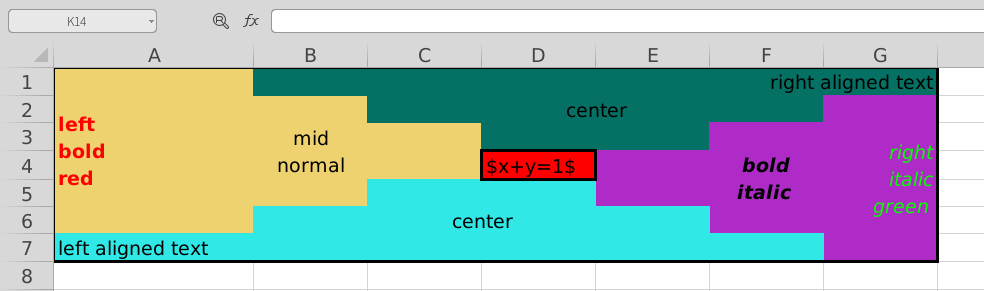
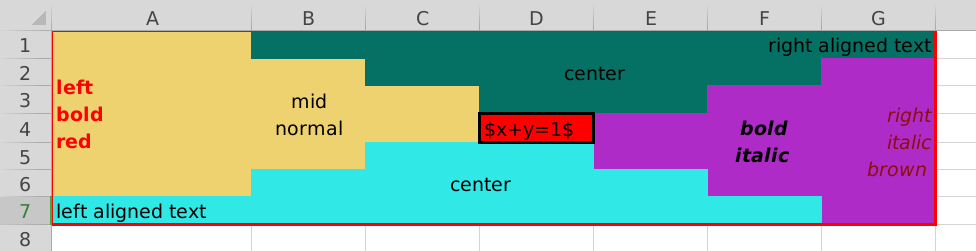
change examples and add setting.tex

diff --git a/examples/all.tex b/examples/all.tex
@@ -1,21 +1,21 @@
 \begin{tabular}{*{7}{c}}
 \hhline{
-  >{\vsl{black}{0.8pt}}
-  !{\sfill{black}{0.8pt}}
-  !{\sfill{black}{0.8pt}}
-  !{\sfill{black}{0.8pt}}
-  !{\sfill{black}{0.8pt}}
-  !{\sfill{black}{0.8pt}}
-  !{\sfill{black}{0.8pt}}
-  !{\sfill{black}{0.8pt}}
-  >{\vsl{black}{0.8pt}}
+  >{\vsl{FF0000}{0.8pt}}
+  !{\sfill{FF0000}{0.8pt}}
+  !{\sfill{FF0000}{0.8pt}}
+  !{\sfill{FF0000}{0.8pt}}
+  !{\sfill{FF0000}{0.8pt}}
+  !{\sfill{FF0000}{0.8pt}}
+  !{\sfill{FF0000}{0.8pt}}
+  !{\sfill{FF0000}{0.8pt}}
+  >{\vsl{FF0000}{0.8pt}}
 }
 % row 1
-  \multicolumn{1}{!{\vsl{black}{0.8pt}}>{\color{FF0000}\bfseries}c}{\cellcolor{EED270}}
-  & \multicolumn{6}{r!{\vsl{black}{0.8pt}}}{\cellcolor{057165}right aligned text}
+  \multicolumn{1}{!{\vsl{FF0000}{0.8pt}}>{\color{FF0000}\bfseries}c}{\cellcolor{EED270}}
+  & \multicolumn{6}{r!{\vsl{FF0000}{0.8pt}}}{\cellcolor{057165}right aligned text}
 \\
 \hhline{
-  >{\vsl{black}{0.8pt}}
+  >{\vsl{FF0000}{0.8pt}}
   !{\sfill{EED270}{0pt}}
   ~
   ~
@@ -23,16 +23,16 @@
   ~
   ~
   ~
-  >{\vsl{black}{0.8pt}}
+  >{\vsl{FF0000}{0.8pt}}
 }
 % row 2
-  \multicolumn{1}{!{\vsl{black}{0.8pt}}>{\color{FF0000}\bfseries}c}{\cellcolor{EED270}}
+  \multicolumn{1}{!{\vsl{FF0000}{0.8pt}}>{\color{FF0000}\bfseries}c}{\cellcolor{EED270}}
   & \multicolumn{1}{c}{\cellcolor{EED270}}
   & \multicolumn{4}{c}{\cellcolor{057165}center}
-  & \multicolumn{1}{>{\color{05FC00}\itshape}c!{\vsl{black}{0.8pt}}}{\cellcolor{AF2BC7}}
+  & \multicolumn{1}{>{\color{8A0E0E}\itshape}c!{\vsl{FF0000}{0.8pt}}}{\cellcolor{AF2BC7}}
 \\
 \hhline{
-  >{\vsl{black}{0.8pt}}
+  >{\vsl{FF0000}{0.8pt}}
   !{\sfill{EED270}{0.8pt}}
   !{\sfill{EED270}{0.8pt}}
   !{\ssfill{057165}{0.4pt}{EED270}{0.4pt}}
@@ -40,18 +40,18 @@
   !{\ssfill{057165}{0.4pt}{057165}{0.4pt}}
   !{\ssfill{057165}{0.4pt}{AF2BC7}{0.4pt}}
   !{\sfill{AF2BC7}{0.8pt}}
-  >{\vsl{black}{0.8pt}}
+  >{\vsl{FF0000}{0.8pt}}
 }
 % row 3
-  \multicolumn{1}{!{\vsl{black}{0.8pt}}>{\color{FF0000}\bfseries}c}{\cellcolor{EED270}}
+  \multicolumn{1}{!{\vsl{FF0000}{0.8pt}}>{\color{FF0000}\bfseries}c}{\cellcolor{EED270}}
   & \multicolumn{1}{c}{\cellcolor{EED270}}
   & \multicolumn{1}{c}{\cellcolor{EED270}}
   & \multicolumn{2}{>{\color{9DF4E0}}c}{\cellcolor{057165}}
   & \multicolumn{1}{>{\itshape\bfseries}c}{\cellcolor{AF2BC7}}
-  & \multicolumn{1}{>{\color{05FC00}\itshape}c!{\vsl{black}{0.8pt}}}{\cellcolor{AF2BC7}}
+  & \multicolumn{1}{>{\color{8A0E0E}\itshape}c!{\vsl{FF0000}{0.8pt}}}{\cellcolor{AF2BC7}}
 \\
 \hhline{
-  >{\vsl{black}{0.8pt}}
+  >{\vsl{FF0000}{0.8pt}}
   !{\sfill{EED270}{0.8pt}}
   !{\sfill{EED270}{0.8pt}}
   !{\sfill{EED270}{0.8pt}}
@@ -61,20 +61,20 @@
   !{\ssfill{057165}{0.4pt}{AF2BC7}{0.4pt}}
   !{\sfill{AF2BC7}{0.8pt}}
   !{\sfill{AF2BC7}{0.8pt}}
-  >{\vsl{black}{0.8pt}}
+  >{\vsl{FF0000}{0.8pt}}
 }
 % row 4
-  \multicolumn{1}{!{\vsl{black}{0.8pt}}>{\color{FF0000}\bfseries}c}{\cellcolor{EED270}}
+  \multicolumn{1}{!{\vsl{FF0000}{0.8pt}}>{\color{FF0000}\bfseries}c}{\cellcolor{EED270}}
   & \multicolumn{1}{c}{\cellcolor{EED270}}
   & \multicolumn{1}{c!{\vsl{black}{0.8pt}}}{\cellcolor{EED270}
     \multirow{-2}*{}}
   & \multicolumn{1}{c!{\vsl{black}{0.8pt}}}{\cellcolor{FF0000}$x+y=1$}
   & \multicolumn{1}{c}{\cellcolor{AF2BC7}}
   & \multicolumn{1}{>{\itshape\bfseries}c}{\cellcolor{AF2BC7}}
-  & \multicolumn{1}{>{\color{05FC00}\itshape}c!{\vsl{black}{0.8pt}}}{\cellcolor{AF2BC7}}
+  & \multicolumn{1}{>{\color{8A0E0E}\itshape}c!{\vsl{FF0000}{0.8pt}}}{\cellcolor{AF2BC7}}
 \\
 \hhline{
-  >{\vsl{black}{0.8pt}}
+  >{\vsl{FF0000}{0.8pt}}
   !{\sfill{EED270}{0.8pt}}
   !{\sfill{EED270}{0.8pt}}
   !{\ssfill{EED270}{0.4pt}{30E8E6}{0.4pt}}
@@ -84,20 +84,20 @@
   !{\sfill{AF2BC7}{0.8pt}}
   !{\sfill{AF2BC7}{0.8pt}}
   !{\sfill{AF2BC7}{0.8pt}}
-  >{\vsl{black}{0.8pt}}
+  >{\vsl{FF0000}{0.8pt}}
 }
 % row 5
-  \multicolumn{1}{!{\vsl{black}{0.8pt}}>{\color{FF0000}\bfseries}c}{\cellcolor{EED270}}
+  \multicolumn{1}{!{\vsl{FF0000}{0.8pt}}>{\color{FF0000}\bfseries}c}{\cellcolor{EED270}}
   & \multicolumn{1}{c}{\cellcolor{EED270}
     \multirow{-4}*{\minitab[c]{\minitab[c]{mid \\normal}}}}
   & \multicolumn{2}{c}{\cellcolor{30E8E6}}
   & \multicolumn{1}{c}{\cellcolor{AF2BC7}
     \multirow{-2}*{}}
   & \multicolumn{1}{>{\itshape\bfseries}c}{\cellcolor{AF2BC7}}
-  & \multicolumn{1}{>{\color{05FC00}\itshape}c!{\vsl{black}{0.8pt}}}{\cellcolor{AF2BC7}}
+  & \multicolumn{1}{>{\color{8A0E0E}\itshape}c!{\vsl{FF0000}{0.8pt}}}{\cellcolor{AF2BC7}}
 \\
 \hhline{
-  >{\vsl{black}{0.8pt}}
+  >{\vsl{FF0000}{0.8pt}}
   !{\sfill{EED270}{0pt}}
   ~
   ~
@@ -105,18 +105,18 @@
   ~
   !{\sfill{AF2BC7}{0pt}}
   !{\sfill{AF2BC7}{0pt}}
-  >{\vsl{black}{0.8pt}}
+  >{\vsl{FF0000}{0.8pt}}
 }
 % row 6
-  \multicolumn{1}{!{\vsl{black}{0.8pt}}>{\color{FF0000}\bfseries}l}{\cellcolor{EED270}
+  \multicolumn{1}{!{\vsl{FF0000}{0.8pt}}>{\color{FF0000}\bfseries}l}{\cellcolor{EED270}
     \multirow{-6}*{\minitab[l]{\minitab[l]{left \\bold \\red}}}}
   & \multicolumn{4}{c}{\cellcolor{30E8E6}center}
   & \multicolumn{1}{>{\itshape\bfseries}c}{\cellcolor{AF2BC7}
     \multirow{-4}*{\minitab[c]{\minitab[c]{bold \\italic}}}}
-  & \multicolumn{1}{>{\color{05FC00}\itshape}c!{\vsl{black}{0.8pt}}}{\cellcolor{AF2BC7}}
+  & \multicolumn{1}{>{\color{8A0E0E}\itshape}c!{\vsl{FF0000}{0.8pt}}}{\cellcolor{AF2BC7}}
 \\
 \hhline{
-  >{\vsl{black}{0.8pt}}
+  >{\vsl{FF0000}{0.8pt}}
   ~
   ~
   ~
@@ -124,22 +124,22 @@
   ~
   ~
   !{\sfill{AF2BC7}{0pt}}
-  >{\vsl{black}{0.8pt}}
+  >{\vsl{FF0000}{0.8pt}}
 }
 % row 7
-  \multicolumn{6}{!{\vsl{black}{0.8pt}}l}{\cellcolor{30E8E6}left aligned text}
-  & \multicolumn{1}{>{\color{05FC00}\itshape}r!{\vsl{black}{0.8pt}}}{\cellcolor{AF2BC7}
-    \multirow{-6}*{\minitab[r]{\minitab[r]{right \\italic \\green}}}}
+  \multicolumn{6}{!{\vsl{FF0000}{0.8pt}}l}{\cellcolor{30E8E6}left aligned text}
+  & \multicolumn{1}{>{\color{8A0E0E}\itshape}r!{\vsl{FF0000}{0.8pt}}}{\cellcolor{AF2BC7}
+    \multirow{-6}*{\minitab[r]{\minitab[r]{right \\italic \\brown}}}}
 \\
 \hhline{
-  >{\vsl{black}{0.8pt}}
-  !{\sfill{black}{0.8pt}}
-  !{\sfill{black}{0.8pt}}
-  !{\sfill{black}{0.8pt}}
-  !{\sfill{black}{0.8pt}}
-  !{\sfill{black}{0.8pt}}
-  !{\sfill{black}{0.8pt}}
-  !{\sfill{black}{0.8pt}}
-  >{\vsl{black}{0.8pt}}
+  >{\vsl{FF0000}{0.8pt}}
+  !{\sfill{FF0000}{0.8pt}}
+  !{\sfill{FF0000}{0.8pt}}
+  !{\sfill{FF0000}{0.8pt}}
+  !{\sfill{FF0000}{0.8pt}}
+  !{\sfill{FF0000}{0.8pt}}
+  !{\sfill{FF0000}{0.8pt}}
+  !{\sfill{FF0000}{0.8pt}}
+  >{\vsl{FF0000}{0.8pt}}
 }
 \end{tabular}

diff --git a/examples/setting.tex b/examples/setting.tex
@@ -1,0 +1,69 @@
+\usepackage[table]{xcolor}
+\usepackage{multirow}
+\usepackage{colortbl}
+\usepackage{dashrule}
+\usepackage{ehhline}
+
+%% nested tabular
+\newcommand{\minitab}[2][l]{\begin{tabular}{@{}#1@{}}#2\end{tabular}}
+
+%% vertical line
+% vertical colored line #1 color #2 width
+\newcommand{\vsl}[2]{\color{#1}\vrule width #2}
+% doubled vline
+% #1 first color #2 first width #3 sep #4 second color #5 second sep
+\newcommand{\dvsl}[5]{%
+  \vsl{#1}{#2}\hspace{#3}\vsl{#4}{#5}%
+}
+
+%% horizontal line
+% colored solid line pattern
+% #1 color #2 width #3 height
+\newcommand{\hsp}[3]{\hbox{\textcolor{#1}{\rule{#2}{#3}}}}
+% colored dash line pattern
+% #1 color #2 width #3 height #4 style
+\newcommand{\hdp}[4]{\hbox{\textcolor{#1}{\hdashrule{#2}{#3}{#4}}}}
+% fill line
+% #1 top fill #2 bottom fill
+\newcommand{\leaderfill}[1]{%
+  \xleaders\hbox{%
+    \vbox{\baselineskip=0pt\lineskip=0pt#1}%
+  }\hfill%
+}
+% top: solid, bottom: solid
+% #1 top color #2 top height #3 bottom color#4 bottom height
+\newcommand{\ssfill}[4]{%
+  \leaderfill{\hsp{#1}{0.1pt}{#2}\hsp{#3}{0.1pt}{#4}}%
+}
+% top: solid, bottom: dashed
+% #1 top color, #2 top height, #3 common width to expand
+% #4 bottom color #5 bottom height, #6 bottom dash line style
+\newcommand{\sdfill}[6]{%
+  \leaderfill{\hsp{#1}{#3}{#2}\hdp{#4}{#3}{#5}{#6}}%
+}
+% single solid
+% #1 color #2 height
+\newcommand{\sfill}[2]{%
+  \leaderfill{\hsp{#1}{0.1pt}{#2}}%
+}
+% single dash
+% #1 color #2 width #3 height #4 style
+\newcommand{\dfill}[4]{%
+  \leaderfill{\hdp{#1}{#2}{#3}{#4}}%
+}
+
+%% vline settings
+% #1 rule width #2 color
+\newcommand{\beforevline}[2]{%
+  \global\setlength\arrayrulewidth{#1}\arrayrulecolor{#2}%
+}
+\newcommand{\aftervline}{%
+  \global\setlength\arrayrulewidth{0.4pt}\arrayrulecolor{black}%
+}
+\definecolor{057165}{HTML}{057165}
+\definecolor{30E8E6}{HTML}{30E8E6}
+\definecolor{EED270}{HTML}{EED270}
+\definecolor{8A0E0E}{HTML}{8A0E0E}
+\definecolor{9DF4E0}{HTML}{9DF4E0}
+\definecolor{FF0000}{HTML}{FF0000}
+\definecolor{AF2BC7}{HTML}{AF2BC7}

diff --git a/examples/simple.tex b/examples/simple.tex
@@ -12,7 +12,7 @@
 % row 2
   & \multirowcell{4}{mid \\normal}
   & \multicolumn{4}{c|}{center}
-  & \multirowcell{6}{right \\italic \\green} \\
+  & \multirowcell{6}{right \\italic \\brown} \\
 \cline{3-6}
 
 % row 3
@@ -23,7 +23,7 @@
 \cline{4-5}
 
 % row 4
-  &  &  & \$x+y=1\$
+  &  &  & $x+y=1$
   & \multirowcell{2}{}
   &  &  \\
 \cline{3-4}

diff --git a/examples/main.tex b/examples/main.tex
@@ -1,0 +1,9 @@
+\documentclass{article}
+\usepackage{makecell}
+\input{setting.tex}
+
+\begin{document}
+\input{simple.tex}
+
+\input{all.tex}
+\end{document}
